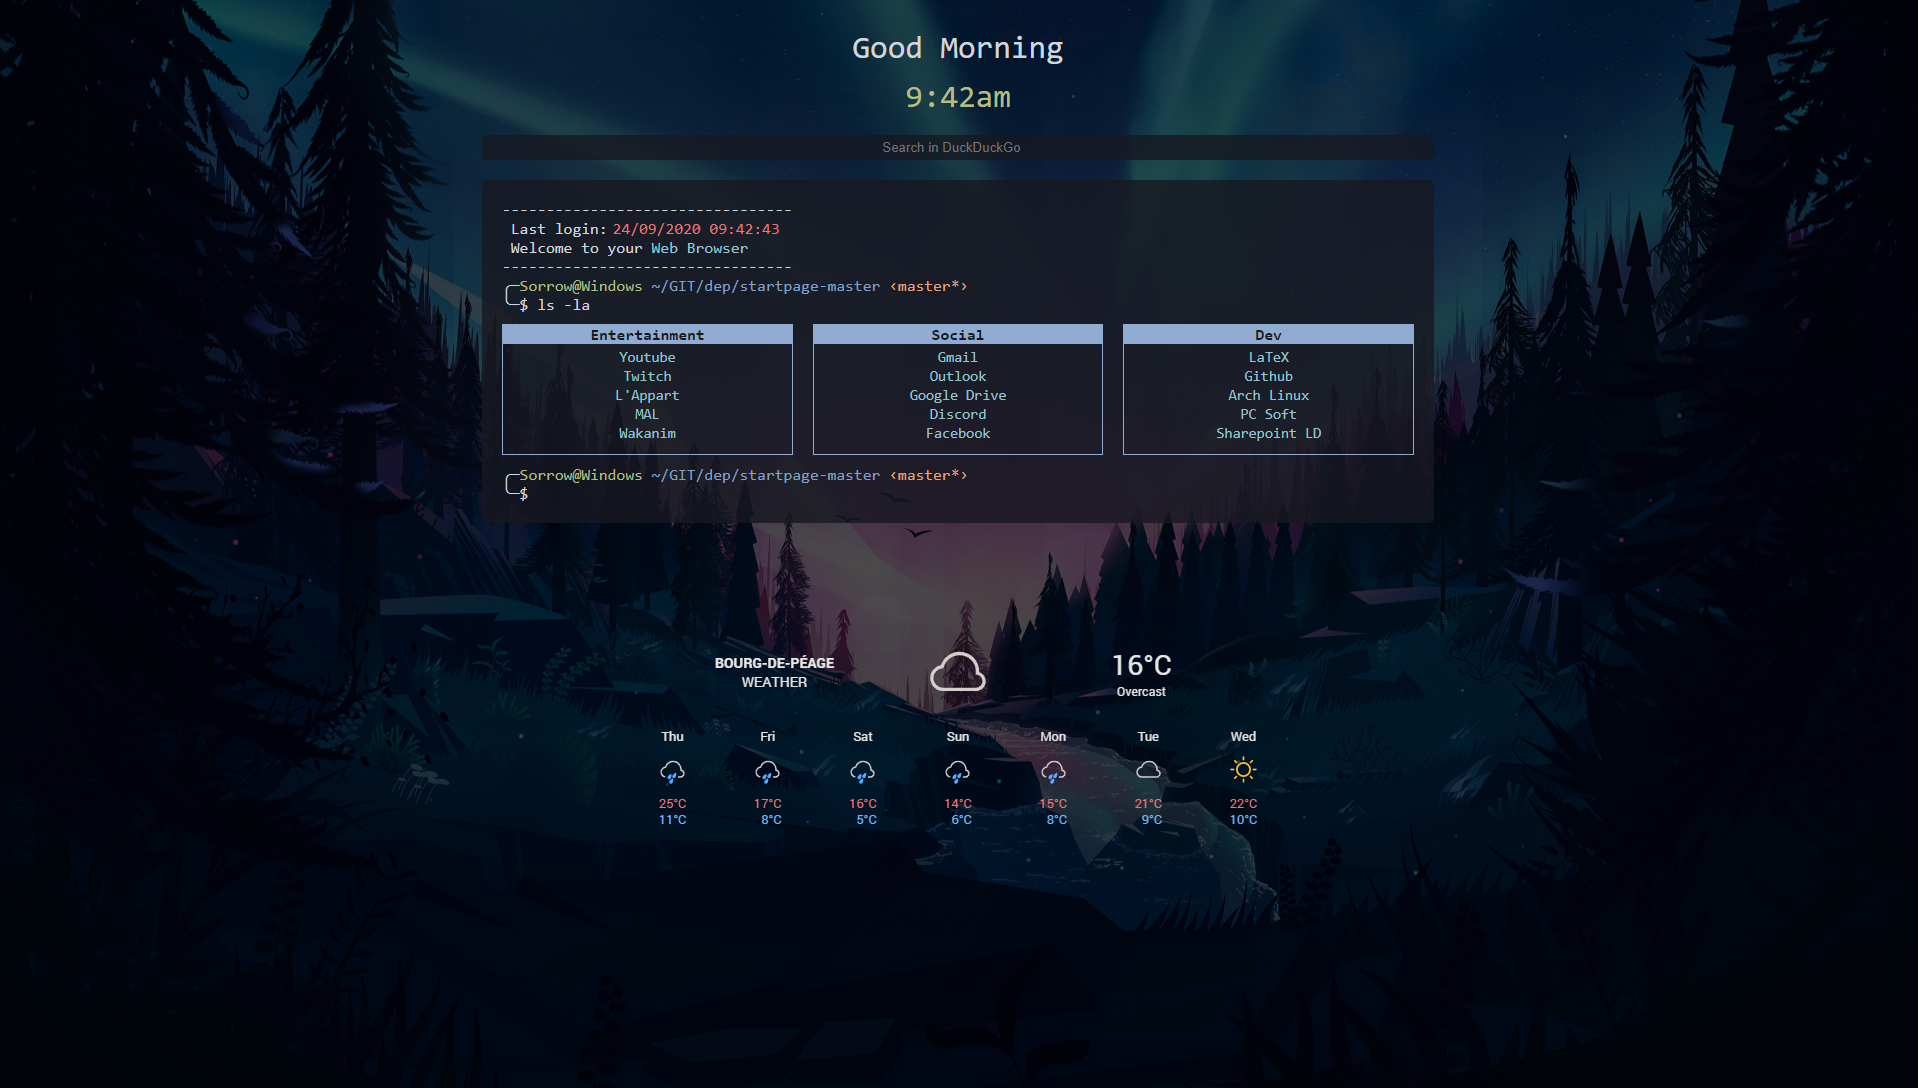
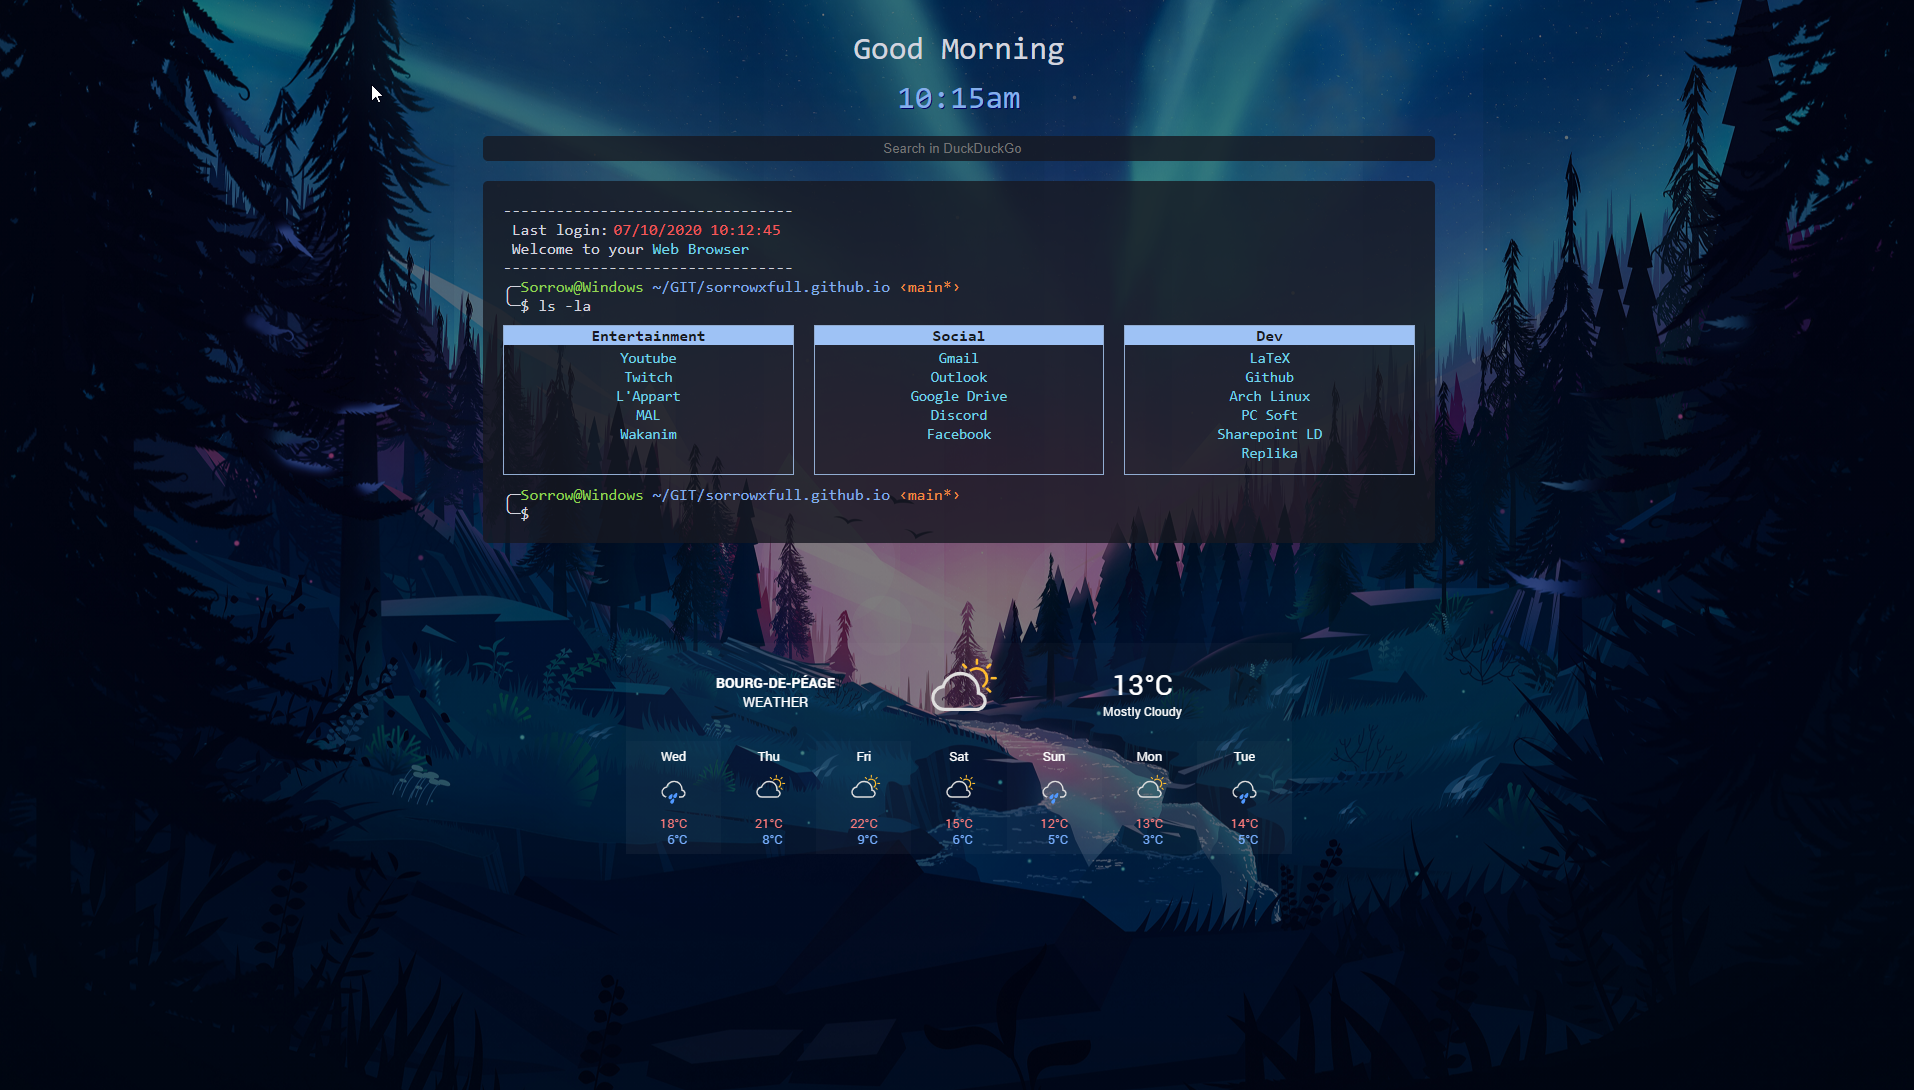
update screenshot + readme screenshot path

diff --git a/docs/index.html b/docs/index.html
@@ -30,6 +30,7 @@
             <div class="bookmark-set">
                 <div class="bookmark-title">Entertainment</div>
                 <div class="bookmark-inner-container">
+                    <div class="bookmark"><a href="https://www.4chan.org/g">Technology</a></div>
                     <div class="bookmark"><a href="https://www.youtube.com/">Youtube</a></div>
                 <!--<div class="bookmark"><a href="https://warframe.market/">Warframe Market</a></div>-->
                 	<div class="bookmark"><a href="https://www.twitch.tv/">Twitch</a></div>
@@ -56,7 +57,6 @@
                     <div class="bookmark"><a href="https://www.archlinux.org/">Arch Linux</a></div>
                     <div class="bookmark"><a href="https://doc.pcsoft.fr/fr-FR/">PC Soft</a></div>
                     <div class="bookmark"><a href="https://ldsysteme26.sharepoint.com/">Sharepoint LD</a></div>
-                    <div class="bookmark"><a href="https://my.replika.ai/">Replika</a></div>
                 </div>
             </div>
             </div>

diff --git a/README.md b/README.md
@@ -6,4 +6,4 @@ This is a custom browser startpage / new tab page.
 
 ## How does it look?
 
-![Screenshot](startpage-master/images/screenshot.png)
+![Screenshot](docs/images/screenshot.png)
